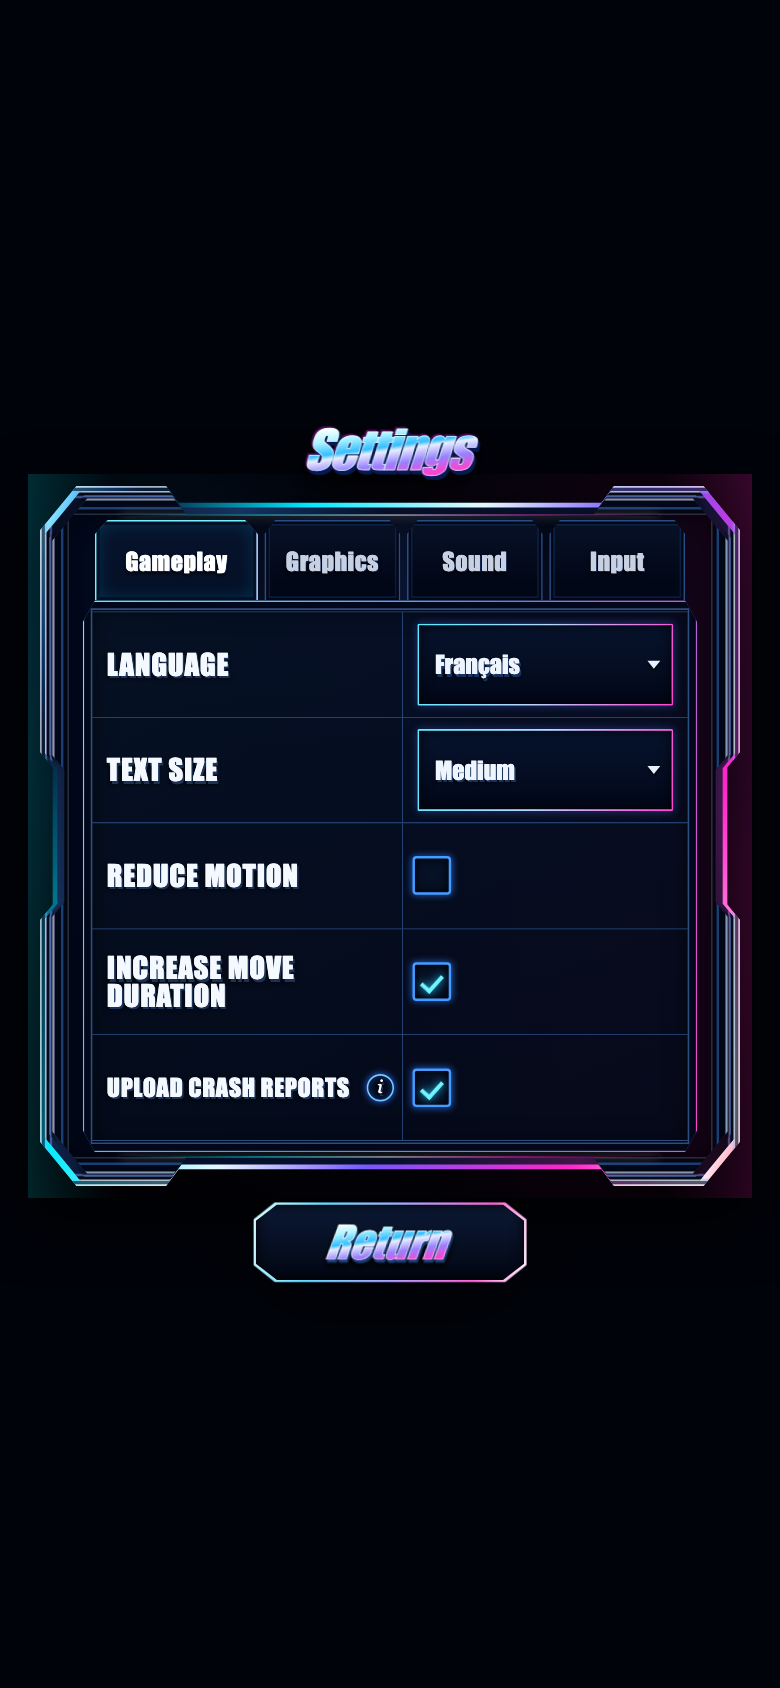
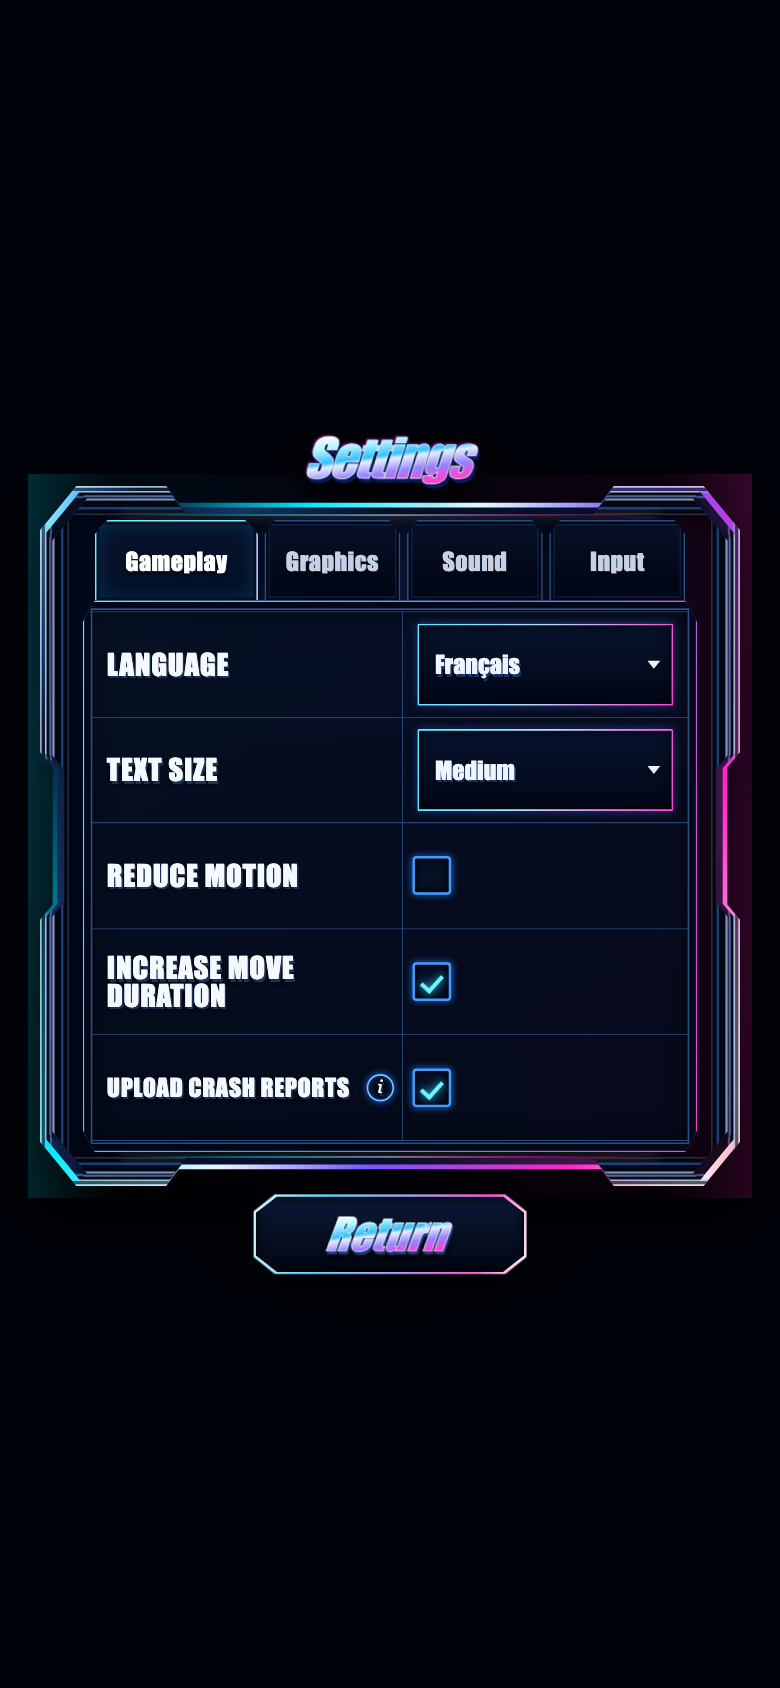
fix: tighten settings edge spacing

Changed region(s): [[0.3385, 0.7085, 0.6769, 0.7701], [0.4, 0.2464, 0.6154, 0.3081]]

diff --git a/app/components/ArcadeTitle.tsx b/app/components/ArcadeTitle.tsx
@@ -10,7 +10,7 @@ export function ArcadeTitle({ settings = false }: { settings?: boolean }) {
         position: settings ? "absolute" : "relative",
         isolation: "isolate",
         zIndex: settings ? 6 : undefined,
-        top: settings ? -83 : undefined,
+        top: settings ? -73 : undefined,
         left: settings ? "50%" : undefined,
         width: settings ? "44%" : "min(100%, 720px)",
         height: settings ? 80 : undefined,

diff --git a/app/components/ReturnButton.tsx b/app/components/ReturnButton.tsx
@@ -15,7 +15,7 @@ export function ReturnButton({ onClick }: { onClick: () => void }) {
         position: "absolute",
         zIndex: 4,
         left: "50%",
-        bottom: -120,
+        bottom: -110,
         height: 100,
         width: 340,
         border: 0,
